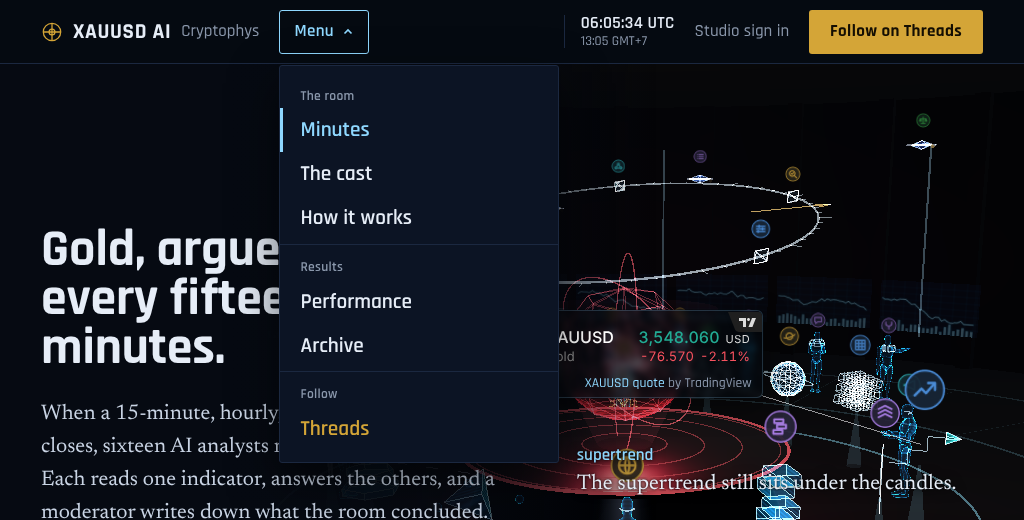
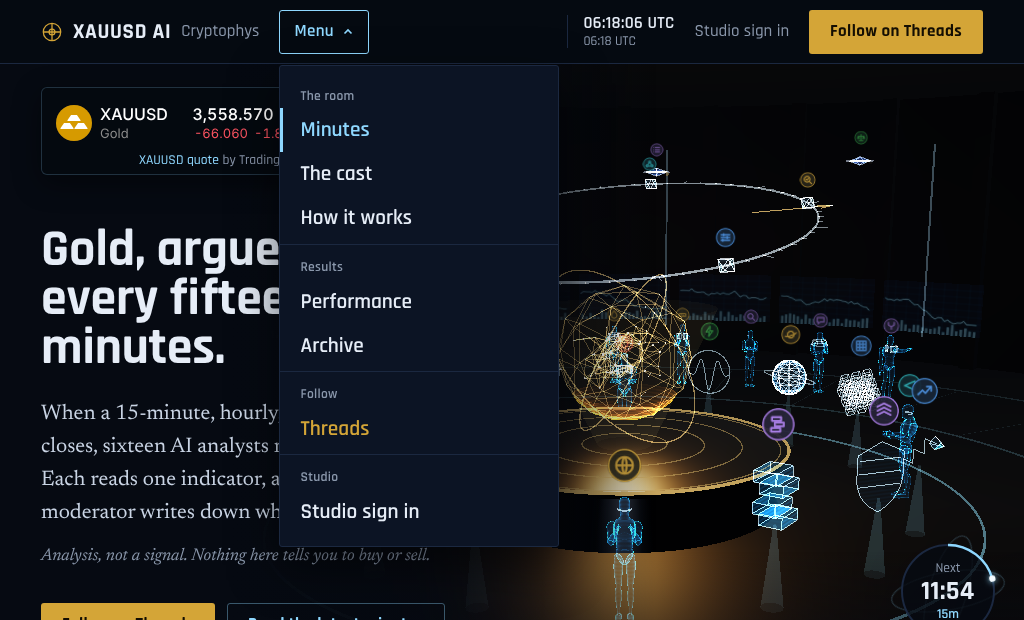
fix(home): Studio sign in stays visible on every desktop width and in the menu
Orchestrator review of #57: the owner needs a visible way into the studio on desktop. At 1401-1599 px, where the
averages need the room, the header link shortens to "Studio" instead of leaving; the Menu gains a Studio group
(hidden inline, like Follow). Checked: one-line 64 px header at 1201, 1440, 1599 and 1600 px; at 360 and 320 px
the quote sits above the dial and the headline, no horizontal scroll. Screenshots: header-1440, hero-360,
hero-320, dropdown-1024.

Claude-Session: https://claude.ai/code/session_01KGEN4kEb43zV5dL2r6HYip

diff --git a/public/index.html b/public/index.html
@@ -25,6 +25,7 @@
       <div class="menu-group"><p class="menu-head" id="mg-room">The room</p><ul aria-labelledby="mg-room"><li><a href="#minutes" data-panel="minutes">Minutes</a></li><li><a href="#cast" data-panel="cast">The cast</a></li><li><a href="#how" data-panel="how">How it works</a></li></ul></div>
       <div class="menu-group"><p class="menu-head" id="mg-results">Results</p><ul aria-labelledby="mg-results"><li><a href="/performance">Performance</a></li><li><a href="/archive">Archive</a></li></ul></div>
       <div class="menu-group menu-follow"><p class="menu-head" id="mg-follow">Follow</p><ul aria-labelledby="mg-follow"><li><a href="https://www.threads.net/@cryptophys.adm" rel="noopener" data-threads>Threads</a></li></ul></div>
+      <div class="menu-group menu-studio"><p class="menu-head" id="mg-studio">Studio</p><ul aria-labelledby="mg-studio"><li><a href="/studio">Studio sign in</a></li></ul></div>
     </div>
   </nav>
   <a class="avg-strip" id="avg-strip" href="/performance" title="Simulated, the average of the exit scenarios" hidden>
@@ -32,7 +33,7 @@
   </a>
   <p class="top-clock"><b id="clock-utc"></b><span id="clock-local"></span></p>
   <div class="top-end">
-    <a class="quiet" href="/studio">Studio sign in</a>
+    <a class="quiet" href="/studio"><span>Studio<span class="q-long"> sign in</span></span></a>
     <a class="btn gold" href="https://www.threads.net/@cryptophys.adm" rel="noopener" data-threads>Follow on Threads</a>
   </div>
 </header>

diff --git a/public/performance.html b/public/performance.html
@@ -25,6 +25,7 @@
       <div class="menu-group"><p class="menu-head" id="mg-room">The room</p><ul aria-labelledby="mg-room"><li><a href="/#minutes">Minutes</a></li><li><a href="/#cast">The cast</a></li><li><a href="/#how">How it works</a></li></ul></div>
       <div class="menu-group"><p class="menu-head" id="mg-results">Results</p><ul aria-labelledby="mg-results"><li><a href="/performance" aria-current="page">Performance</a></li><li><a href="/archive">Archive</a></li></ul></div>
       <div class="menu-group menu-follow"><p class="menu-head" id="mg-follow">Follow</p><ul aria-labelledby="mg-follow"><li><a href="https://www.threads.net/@cryptophys.adm" rel="noopener" data-threads>Threads</a></li></ul></div>
+      <div class="menu-group menu-studio"><p class="menu-head" id="mg-studio">Studio</p><ul aria-labelledby="mg-studio"><li><a href="/studio">Studio sign in</a></li></ul></div>
     </div>
   </nav>
   <a class="avg-strip" id="avg-strip" href="/performance" title="Simulated, the average of the exit scenarios" hidden>
@@ -32,7 +33,7 @@
   </a>
   <p class="top-clock"><b id="clock-utc"></b><span id="clock-local"></span></p>
   <div class="top-end">
-    <a class="quiet" href="/studio">Studio sign in</a>
+    <a class="quiet" href="/studio"><span>Studio<span class="q-long"> sign in</span></span></a>
     <a class="btn gold" href="https://www.threads.net/@cryptophys.adm" rel="noopener" data-threads>Follow on Threads</a>
   </div>
 </header>

diff --git a/public/home.css b/public/home.css
@@ -93,7 +93,7 @@ ul{margin:0;padding:0;list-style:none}
   .menu-head{position:absolute;width:1px;height:1px;overflow:hidden;clip:rect(0 0 0 0);white-space:nowrap;padding:0}
   .menu-group ul{display:flex;gap:2px}
   .menu-group+.menu-group{margin:0 0 0 10px;padding-left:10px;border-top:0;border-left:1px solid var(--rule)}
-  .menu-follow{display:none}
+  .menu-follow,.menu-studio{display:none}
   .menu a{min-height:44px;padding:0 10px;color:var(--slate);font-size:var(--s0);border-radius:3px}
   .menu a:hover{background:none;color:var(--ink)}
   .menu a[aria-current]{color:var(--ink);box-shadow:inset 0 -2px var(--holo);border-radius:0}
@@ -288,8 +288,9 @@ ul{margin:0;padding:0;list-style:none}
 .foot a:hover{color:var(--ink)}
 .foot .foot-small{width:100%;font-size:var(--s-1)}
 
-/* ---------- the header's steps: Studio sign in leaves for the footer where the averages need the room ---------- */
-@media (min-width:1401px) and (max-width:1599px){.brand small,.top .quiet{display:none}}
+/* ---------- the header's steps: where the averages need the room, Studio sign in shortens to "Studio" (the owner's
+   way in stays visible on a desktop); narrower, it is in the Menu and the footer ---------- */
+@media (min-width:1401px) and (max-width:1599px){.brand small,.top .q-long{display:none}}
 
 /* ---------- small screens: the room first at 4:3, the dial and controls under it, then the copy ---------- */
 @media (max-width:900px){

diff --git a/docs/SSOT.md b/docs/SSOT.md
@@ -18,7 +18,7 @@ Bindings:
 - **The home page is the holo war room** (owner 2026-11-19: the orchestrator's prototype approved, "Ya, bangun"; phones "3D, kualitas rendah"; sound "Ada, mati default"; the two guardians "Ikon beda"). A three.js scene of the AI analysts meeting around a projection table: 49 agents (people as holograms, the indicator analysts as constructs, the knowledge agents on the compass ring, the platform agents as drones), the Cerebrum core in the room's bias colour (since 2026-11-20, owner: red bearish, green bullish, amber undecided), the fixed line "Analysis, not a signal". It follows the real rooms: `GET /api/public/warroom-scene` every minute, and a room that has just concluded meets (its analysts' public claims and rebuttals as subtitles, then the Moderator's reasons, then the core seals); between rooms the hall idles; the 15M/1H/4H/1D chips replay a room's latest meeting. **Follow** is the first call to action: one dialog with every channel that has a public link or a published post (X hidden) and its latest post. The navigator (`#agents`) lists every agent and its role as static HTML, the scene's text equivalent. Phones and small GPUs: no bloom, pixel ratio 1, a drag scrolls the page; `prefers-reduced-motion`: no camera drift or fly-to, spins and flicker slowed; the scene draws only while on screen. Ambient sound is generated with WebAudio, off until the visitor turns it on.
   - **Redesign (2026-11-19, owner "lanjutkan frontend", the orchestrator's mockup; scope confirmed by the owner).** The page has its own dark look and stylesheet (`public/home.css`, no `cta.css`): vault `#060A12`, deck `#0C1424`, rule `#1B2840`, holo `#8FD8FF` for anything you act on, gold `#D4A537` for the brand and the one main action (**Follow on Threads**, the link from `GET /api/public/profile`; the Follow dialog is gone); readings (owner 2026-11-20: "bearish seharusnya berwarna merah, dan bullish hijau dan netral warna amber") are bearish red `#F2606E`, bullish green `#3FD08A`, undecided amber `#E0A458`, the same in the 3D scene; sentence case, no all-caps labels, middle dots or arrows. Type: Rajdhani 500/600/700 and Newsreader 400, 400 italic and 500, self-hosted from `@fontsource` (OFL, latin woff2 only; `public/fonts/`, licences in `public/fonts/OFL.txt`), so `font-src 'self'` is unchanged. Sections:
     - **Layout v2** (owner 2026-11-20: "jangan tempatkan semua di pojok ... terlalu penuh"): one type scale for the home and Performance pages, the tokens `--s-1` to `--s6` (1.25; a phone steps the large sizes down, never off the scale; Newsreader never under `--s0`); the header carries the clock; the core carries the quote; the dial sits bottom right; the top-right corner is the scene's.
-    - **Header:** brand, the main nav, the average strip, the clock, Studio sign in, Follow on Threads. One nav (`site/home/header.js`): from 1200 px its links inline, a rule between the groups; narrower, one **Menu** button (`aria-expanded`, `aria-controls`) opens them grouped: The room (Minutes, The cast, How it works), Results (Performance, Archive), Follow (Threads). Esc closes and gives focus back, arrow keys, Home and End move through the links, a tap, click or focus outside closes it, a link closes it. The **clock** (owner 2026-11-20: "waktu utc dan lokal tempatkan di header"): UTC with seconds over the local time and short zone name (Intl), on the second's edge, no live region; at 600 px and narrower UTC only, the local time first in the menu ("Your time"), and Follow stays in the hero and the menu. Brand subtitle and Studio sign in step out where the averages need the room (1401–1599 px); the footer always carries Studio sign in.
+    - **Header:** brand, the main nav, the average strip, the clock, Studio sign in, Follow on Threads. One nav (`site/home/header.js`): from 1200 px its links inline, a rule between the groups; narrower, one **Menu** button (`aria-expanded`, `aria-controls`) opens them grouped: The room (Minutes, The cast, How it works), Results (Performance, Archive), Follow (Threads), Studio (Studio sign in). Esc closes and gives focus back, arrow keys, Home and End move through the links, a tap, click or focus outside closes it, a link closes it. The **clock** (owner 2026-11-20: "waktu utc dan lokal tempatkan di header"): UTC with seconds over the local time and short zone name (Intl), on the second's edge, no live region; at 600 px and narrower UTC only, the local time first in the menu ("Your time"), and Follow stays in the hero and the menu. The brand subtitle steps out and Studio sign in shortens to "Studio" where the averages need the room (1401–1599 px), so the owner's way in stays visible on every desktop width (orchestrator review of #57); below 901 px it is in the menu; the footer always carries it.
     - **Hero:** the live scene, the copy on its left over a dark gradient (on a phone the scene first at 4:3, then the dial and controls, then the copy), the speaker's caption right of the copy and above the dial, bottom right the **meeting dial** over the scene's controls (15m, 1h, 4h, 1d, Agents, Sound). The brand line, "Analysis, not a signal" and Follow left the scene. One load sequence, none under `prefers-reduced-motion`.
     - **Meeting dial** (owner 2026-11-20: "countdown meeting animation dalam bentuk atomic time ... kanan bawah di atas sound off/on"; `#hero-status`): a ring that fills as the quarter hour runs out with an electron at its head and two orbits that precess, mm:ss in Rajdhani tabular figures and the rooms that meet then as the replay buttons name them (`15m 1h`; no middle dot, the page's rule); beside it the room's reading. `meetDial` in `site/home/clock.js`. A new quarter hour empties the ring at once and marks the meeting. Reduced motion: no sweep or precession, the ring moves a step a minute. While gold is closed: "Closed" in the ring, "Market closed, meets again <local day and time>" beside it. The drawn dial is `aria-hidden`; its words are one sentence for screen readers (`#next-rooms`), not a live region.
     - **The rooms' clock** (owner 2026-11-20, "approved all"): the room's reading (the 15-minute room's, or the room replaying), the countdown to the next meeting naming the rooms that meet then (15m every quarter hour; 1H on the hour; 4H at 22, 02, 06, 10, 14, 18 UTC; 1D at 22:00 UTC), and the UTC time (seconds) with the visitor's local time and short zone name (Intl). While gold is closed: "Market closed, the rooms meet again <local day and time>". The rule is the AI Worker's own (`site/home/market-hours.js`, copied from xauusd-ai-trading-assistant `src/market-hours.mjs`: closed Friday 17:00 to Sunday 18:00 New York time, so 22:00 to 23:00 UTC in November and an hour earlier in US daylight time); a room meets at a quarter-hour close when gold traded just before it, as the War Room's sweep (`marketOpenAt(close - 1)`), so the first meeting after the reopen is the next quarter hour. Pure in `site/home/clock.js`; nothing that ticks is a live region. The **average strip** sits in the header of the home and Performance pages (owner 2026-11-20: "di header aja, supaya tidak terlalu penuh"; `site/home/avg-strip.js`): one link after the nav, WR, EXP, NETR and PF (codes only, owner: "gak perlu banyak cosmetics text"; "Simulated" in the title and accessible name), each the mean over the scenarios that show numbers (owner: "cukup pakai kode WR EXP NETR PF"; the managed exit counts only once shown; `headline` in `site/home/track.js`), hidden without a record and at 1400 px and narrower; it stands beside the clock. Results use Nexus's colours (owner: "samakan dengan yang di nexus") in the strip and the Performance table: R above zero #34d399, below #fb7185, zero #64748b; win rate from 50 % #34d399, under it #fcd34d; profit factor #a78bfa.

diff --git a/docs/CHANGELOG.md b/docs/CHANGELOG.md
@@ -1,7 +1,7 @@
 # Changelog
 
 ## 2026-11-20 (layout v2)
-- feat(home): layout v2 (owner 2026-11-20: "jangan tempatkan semua di pojok ... terlalu penuh"). One type scale (`--s-1` to `--s6`) for every size on the home and Performance pages (test LY1). Minutes, The cast and How it works are panels, one at a time under the hero, by the URL hash (deep links, back and forward; Minutes without a hash; `aria-current` on the nav link, focus to the heading; LY2). The nav folds into a Menu button with grouped links (The room, Results, Follow) under 1200 px, phones included: `aria-expanded`, Esc, arrow keys, touch (LY3). The UTC clock and the local time move into the header (a phone: UTC only, the local time in the menu). TradingView's quote sits at the hero's top left, on the copy's left edge above the headline (owner, after seeing it on the core: "widget taruh di kiri atas saja, jelek kalau di core"); the scene does not place it (GD5). The countdown becomes a meeting dial bottom right, over the Sound button: a ring that fills over the quarter hour with the rooms that meet next and the room's reading beside it; the weekend without a count; reduced motion without a sweep (`meetDial`, CK6, CK7). Screenshots in `docs/screenshots/layout-v2/`.
+- feat(home): layout v2 (owner 2026-11-20: "jangan tempatkan semua di pojok ... terlalu penuh"). One type scale (`--s-1` to `--s6`) for every size on the home and Performance pages (test LY1). Minutes, The cast and How it works are panels, one at a time under the hero, by the URL hash (deep links, back and forward; Minutes without a hash; `aria-current` on the nav link, focus to the heading; LY2). The nav folds into a Menu button with grouped links (The room, Results, Follow, Studio) under 1200 px; Studio sign in stays in the desktop header ("Studio" at 1401–1599 px), phones included: `aria-expanded`, Esc, arrow keys, touch (LY3). The UTC clock and the local time move into the header (a phone: UTC only, the local time in the menu). TradingView's quote sits at the hero's top left, on the copy's left edge above the headline (owner, after seeing it on the core: "widget taruh di kiri atas saja, jelek kalau di core"); the scene does not place it (GD5). The countdown becomes a meeting dial bottom right, over the Sound button: a ring that fills over the quarter hour with the rooms that meet next and the room's reading beside it; the weekend without a count; reduced motion without a sweep (`meetDial`, CK6, CK7). Screenshots in `docs/screenshots/layout-v2/`.
 
 ## 2026-11-20 (gold price)
 - feat(home): the live gold price through TradingView's Single Quote widget (owner 2026-11-20: "tambahkan juga harga emas live"; asked to choose after the licence check, "Widget only, core without a price": TradingView licenses its market data for display only and allows public display through its own widgets with their attribution). Its own frame from www.tradingview-widget.com (the CSP's one new `frame-src`; no script host), under the hero's status box (below the hero buttons on a phone), never in the header, added after the load event with its space kept, TradingView's attribution kept. The core shows no price. The privacy page notes the widget's own cookies. The no-price rule's exception covers that element only (test/gold.test.mjs).
